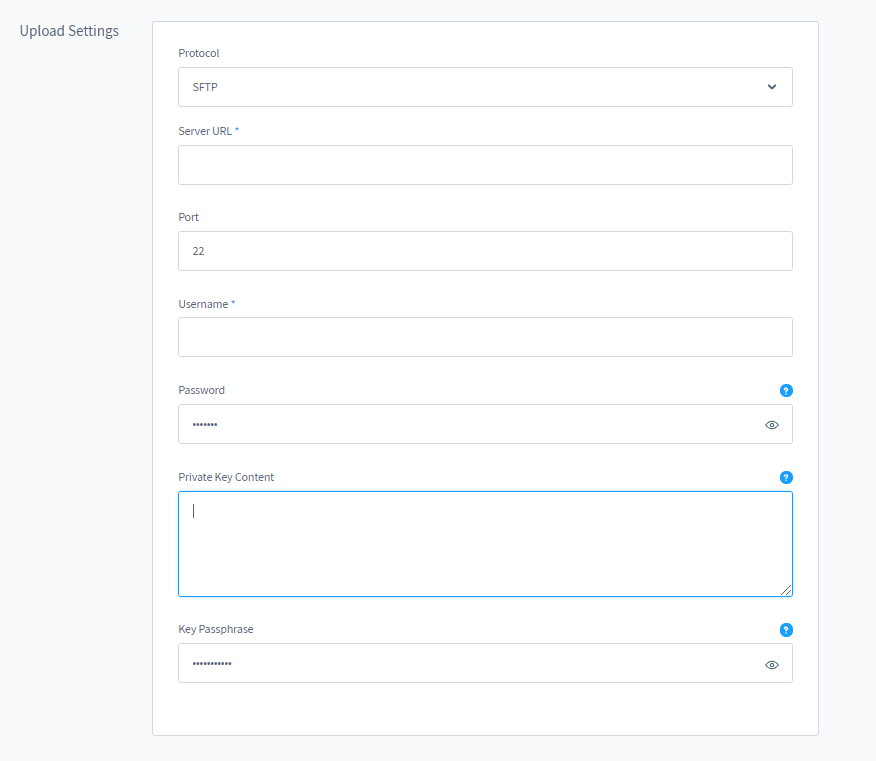
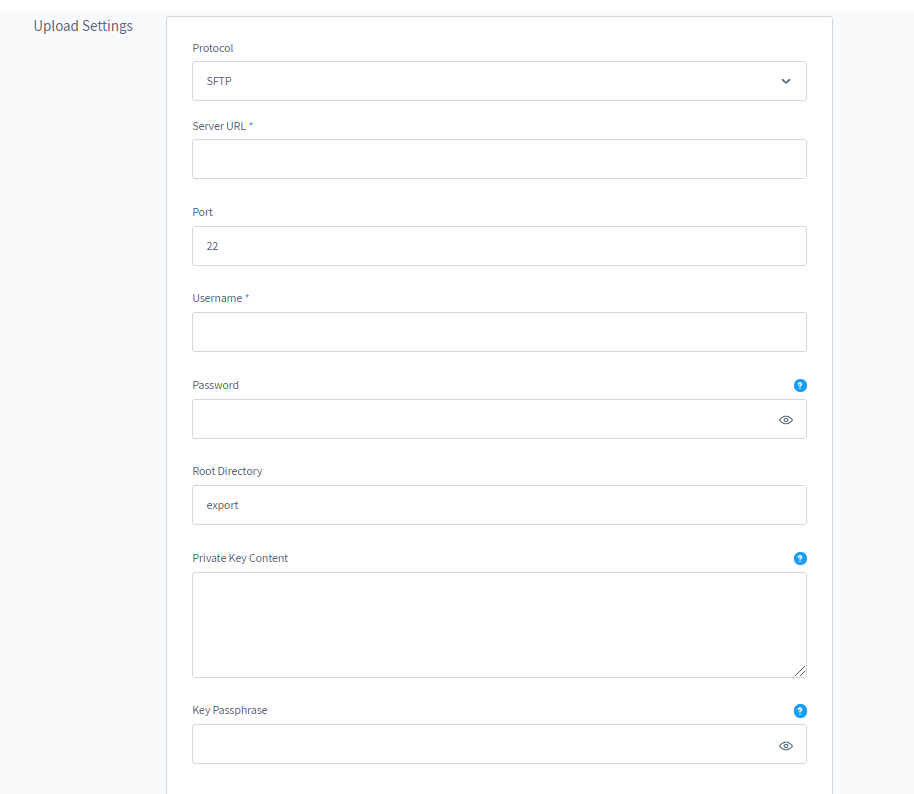
FFWEB-2281 fix upload type error with creating export directory

diff --git a/src/Upload/UploadService.php b/src/Upload/UploadService.php
@@ -5,7 +5,6 @@ declare(strict_types=1);
 namespace Omikron\FactFinder\Shopware6\Upload;
 
 use Exception;
-use League\Flysystem\FilesystemInterface;
 use Omikron\FactFinder\Shopware6\Config\FtpConfig;
 use Omikron\FactFinder\Shopware6\Export\SalesChannelService;
 use Shopware\Core\Framework\Adapter\Filesystem\FilesystemFactory;
@@ -36,11 +35,7 @@ class UploadService
         $connection     = $this->filesystemFactory->factory($this->config());
         $salesChannelId = $this->salesChannelService->getSalesChannelContext()->getSalesChannel()->getId();
 
-        if (!$connection->has('export')) {
-            $this->createExportDirectory($connection);
-        }
-
-        if (!$connection->putStream('/export/' . $this->config->getUploadFileName($salesChannelId), $fileHandle)) {
+        if (!$connection->putStream($this->config->getUploadFileName($salesChannelId), $fileHandle)) {
             throw new Exception('Failed to upload file');
         }
     }
@@ -57,15 +52,8 @@ class UploadService
                 'ssl'        => true,
                 'privateKey' => $this->config->getPrivateKeyFile(),
                 'passphrase' => $this->config->getKeyPassphrase(),
+                'root'       => $this->config->getRoot(),
             ]),
         ];
-    }
-
-    private function createExportDirectory(FilesystemInterface $filesystem): bool
-    {
-        $result = $filesystem->createDir('export');
-        if (!$result) {
-            throw new Exception('Failed to create "export directory"');
-        }
     }
 }

diff --git a/src/Config/FtpConfig.php b/src/Config/FtpConfig.php
@@ -26,6 +26,11 @@ class FtpConfig extends BaseConfig
         return (string) $this->config('ftpPassword');
     }
 
+    public function getRoot(): string
+    {
+        return (string) $this->config('rootDir');
+    }
+
     public function getUploadFileName(?string $salesChannelId = null): string
     {
         return sprintf('export.%s.csv', $this->config('channel', $salesChannelId));

diff --git a/README.md b/README.md
@@ -116,6 +116,7 @@ Following settings are used for uploading already exported feed to a given FTP/S
 * Port
 * Username
 * Password
+* Root Directory
 * Private Key Content
 * Passphrase
 
